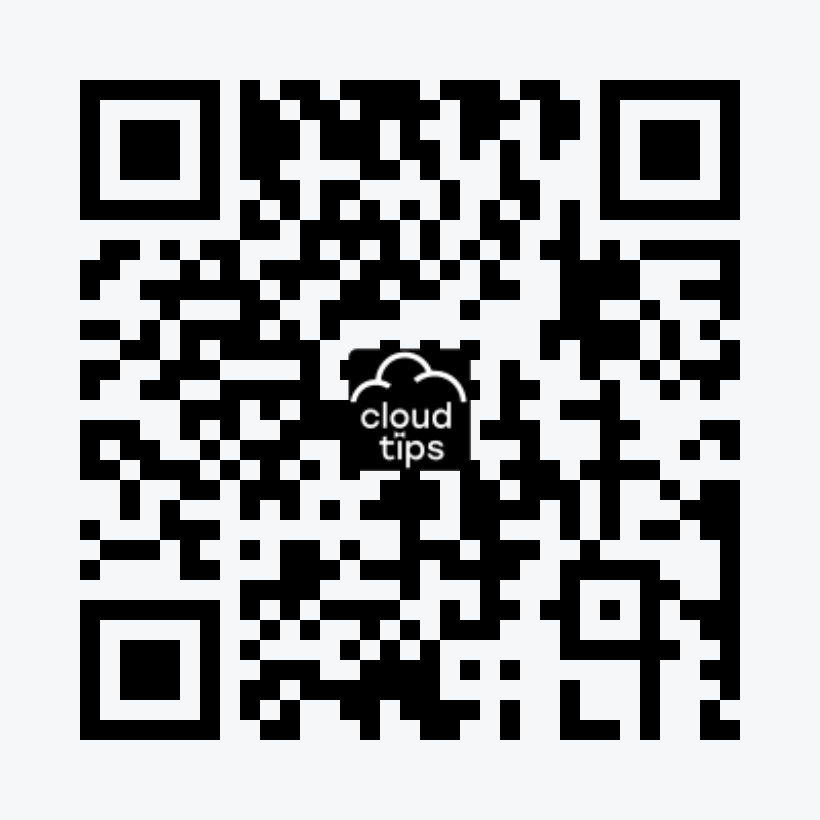
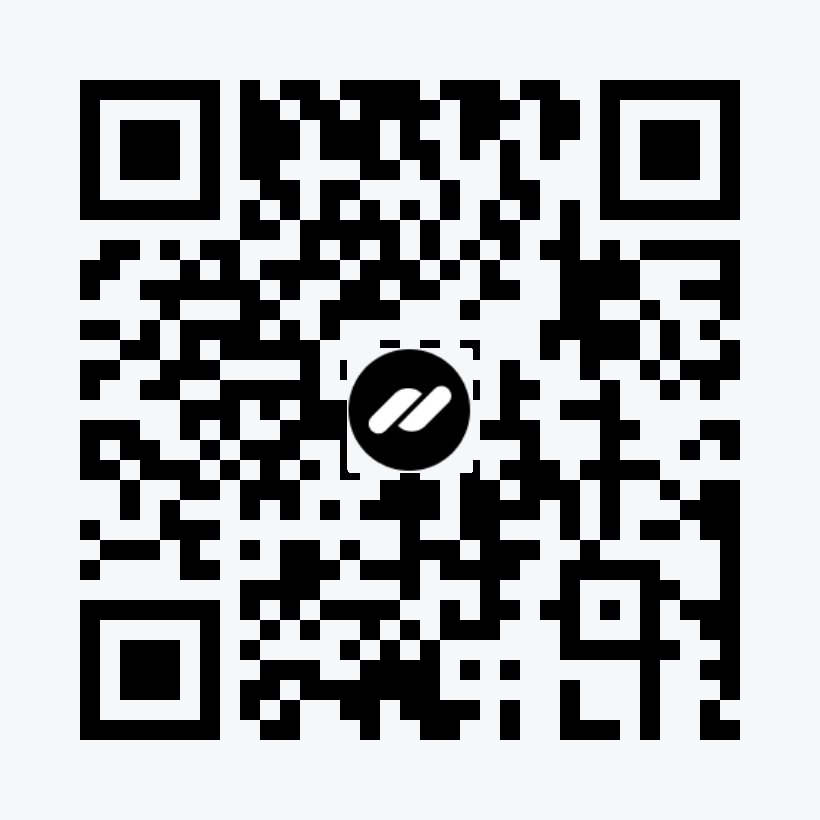
donation

Changed region(s): [[0.3963, 0.4268, 0.5793, 0.5793]]

diff --git a/donate.md b/donate.md
@@ -16,13 +16,16 @@ permalink: /donation/
 
 ## Как сделать Donation?
 
-## Банковские сервисы
+## Банковские и платежные сервисы
 
 💳 [Donationalerts](http://www.donationalerts.ru/r/tatarinovms)
+
+💳 [YooMoney](https://yoomoney.ru/to/410013980054903) 
 
 💳 [Банковская карта](https://www.tinkoff.ru/rm/tatarinov.maksim1/7PGUE43434/)
 
 💳 [CloudTips](https://pay.cloudtips.ru/p/fdd4b52c)
+
 
 ![](https://raw.githubusercontent.com/tatarinovms/tatarinovms.github.io/master/images/donation/qrCode.png)
 
